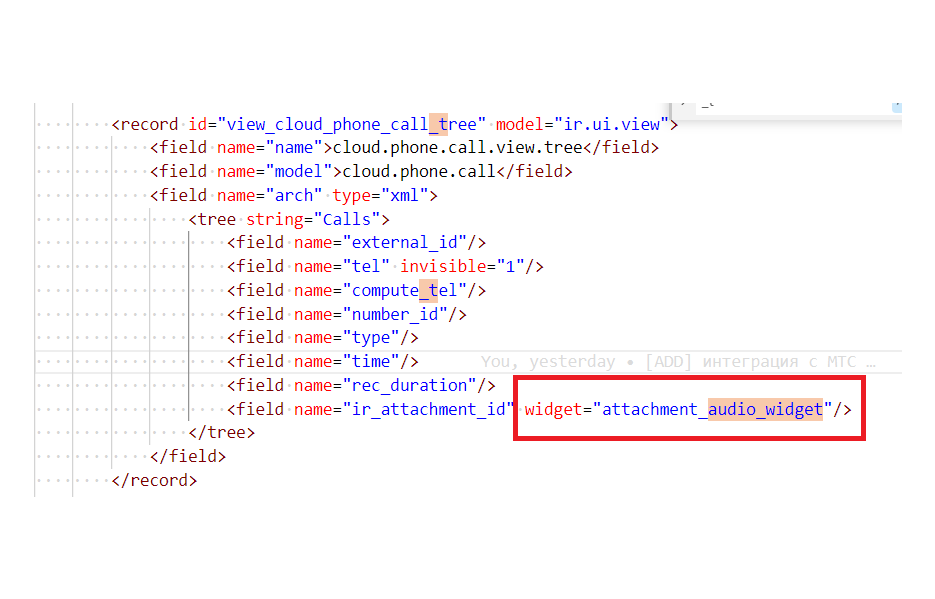
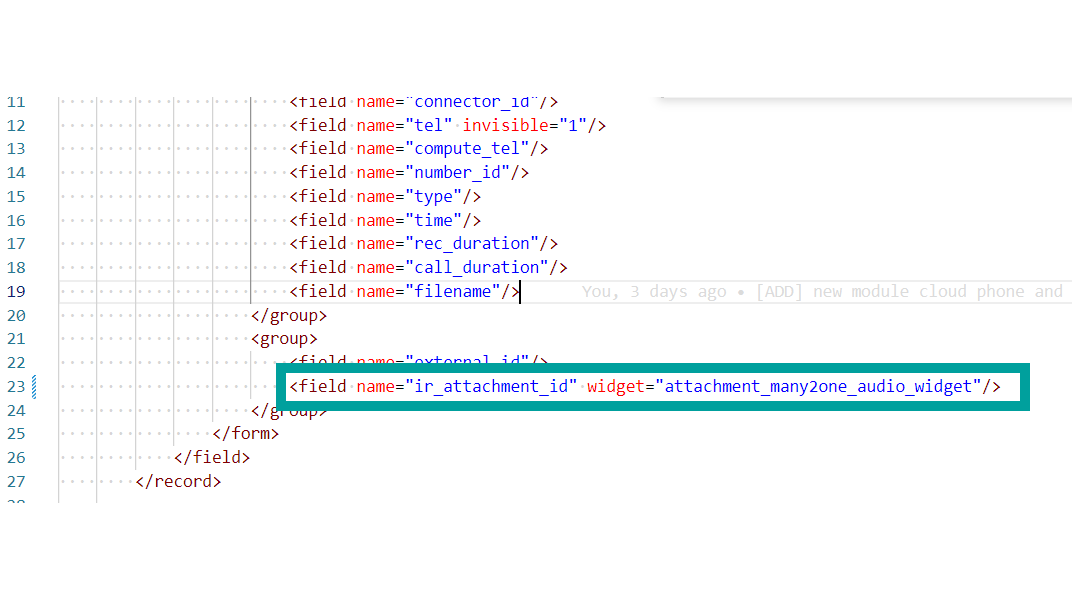
[ADD] new version attachments widgets

diff --git a/attachments_widgets/static/src/js/audio_widget.js b/attachments_widgets/static/src/js/audio_widget.js
@@ -1,22 +1,48 @@
 odoo.define('audio_widget', function (require) {
-    var FieldBinaryFile = require("web.basic_fields").FieldBinaryFile;
-    var fieldRegistry = require('web.field_registry');
-    var core = require('web.core');
-    var _t = core._t;
+    const FieldBinaryFile = require("web.basic_fields").FieldBinaryFile;
+    const fieldRegistry = require('web.field_registry');
+    const relational_fields = require('web.relational_fields');
+    const FieldMany2One = relational_fields.FieldMany2One;
+    const session = require('web.session');
+    const core = require('web.core');
+    const _t = core._t;
 
-    var AttachmentAudioWidget = FieldBinaryFile.extend({
 
-        supportedFieldTypes: ['binary', 'many2one'],
+    const AttachmentMany2OneAudioWidget = FieldMany2One.extend({
+
+        supportedFieldTypes: ['many2one'],
         accepted_file_extensions: 'audio/*,application/ogg',
 
-        _getAudioUrl: function (attachment) {
+        _getUrl: function (attachment) {
             return '/web/content/' + attachment.res_id + '?download=true';
         },
 
+        _computeIsAudio(extension) {
+            const audioExtensions = [
+                'wav',
+                'ogg',
+                'mp3',
+                'mp4',
+                'oga',
+                'ogx',
+                'mpeg'
+            ];
+            return audioExtensions.includes(extension);
+        },
+
+        _computeExtension(filename) {
+            const extension = filename && filename.split('.').pop();
+            if (extension) {
+                return extension;
+            }
+            return clear();
+        },
+
         _renderReadonly: function () {
+            this._super.apply(this, arguments);
             if (this.mode == "readonly")
                 if (this.value) {
-                    const url = this._getAudioUrl(this.value);
+                    const url = this._getUrl(this.value);
 
                     let audio = $('<audio>', {
                         'src': url,
@@ -24,7 +50,8 @@ odoo.define('audio_widget', function (require) {
                         'preload': "metadata",
                     })
 
-                    this.$el.append(audio);
+                    // this.$el.append(audio);
+                    this.$el = audio;
 
                     audio.on("error", () => {
                         this.displayNotification({
@@ -44,10 +71,10 @@ odoo.define('audio_widget', function (require) {
             if (!files || files.length === 0)
                 return;
 
-            let dotArray = files[0].name.split(".");
-            let extension = dotArray[dotArray.length - 1];
+            const filename = files[0].name;
+            const extension = this._computeExtension(filename);
 
-            if (!['wav', 'ogg', 'mp3', 'mp4', 'oga', 'ogx', 'mpeg'].includes(extension))
+            if (!this._computeIsAudio(extension))
                 this.displayNotification({
                     title: _t('Wrong Extension Audio File'),
                     message: _t("Format should be in wav, ogg, mp3, mp4, oga, ogx, mpeg"),
@@ -56,6 +83,91 @@ odoo.define('audio_widget', function (require) {
         }
     });
 
-    fieldRegistry.add('attachment_audio_widget', AttachmentAudioWidget);
-    return { AttachmentAudioWidget: AttachmentAudioWidget };
+    const AttachmentBinaryAudioWidget = FieldBinaryFile.extend({
+
+        supportedFieldTypes: ['binary'],
+        accepted_file_extensions: 'audio/*,application/ogg',
+
+        _getUrl: function (attachment) {
+            if (this.field.type == 'binary')
+                return session.url('/web/content', {
+                    model: this.model,
+                    id: JSON.stringify(this.res_id),
+                    field: this.name,
+                });
+        },
+
+        _computeIsAudio(extension) {
+            const audioExtensions = [
+                'wav',
+                'ogg',
+                'mp3',
+                'mp4',
+                'oga',
+                'ogx',
+                'mpeg'
+            ];
+            return audioExtensions.includes(extension);
+        },
+
+        _computeExtension(filename) {
+            const extension = filename && filename.split('.').pop();
+            if (extension) {
+                return extension;
+            }
+            return clear();
+        },
+
+        _renderReadonly: function () {
+            this._super.apply(this, arguments);
+            if (this.mode == "readonly")
+                if (this.value) {
+                    const url = this._getUrl(this.value);
+
+                    let audio = $('<audio>', {
+                        'src': url,
+                        'controls': true,
+                        'preload': "metadata",
+                    })
+
+                    // this.$el.append(audio);
+                    this.$el = audio;
+
+                    audio.on("error", () => {
+                        this.displayNotification({
+                            title: _t('Wrong Extension Audio File'),
+                            message: _t("Format should be in wav, ogg, mp3, mp4, oga, ogx, mpeg"),
+                            type: 'danger',
+                        });
+                    })
+                }
+        },
+
+        on_file_change: function (ev) {
+            this._super.apply(this, arguments);
+
+            let files = ev.target.files;
+
+            if (!files || files.length === 0)
+                return;
+
+            const filename = files[0].name;
+            const extension = this._computeExtension(filename);
+
+            if (!this._computeIsAudio(extension))
+                this.displayNotification({
+                    title: _t('Wrong Extension Audio File'),
+                    message: _t("Format should be in wav, ogg, mp3, mp4, oga, ogx, mpeg"),
+                    type: 'danger',
+                });
+        }
+    });
+
+    fieldRegistry.add('attachment_many2one_audio_widget', AttachmentMany2OneAudioWidget);
+    fieldRegistry.add('attachment_binary_audio_widget', AttachmentBinaryAudioWidget);
+
+    return {
+        AttachmentMany2OneAudioWidget: AttachmentMany2OneAudioWidget,
+        AttachmentBinaryAudioWidget: AttachmentBinaryAudioWidget
+    };
 })

diff --git a/attachments_widgets/static/src/js/video_widget.js b/attachments_widgets/static/src/js/video_widget.js
@@ -1,0 +1,89 @@
+odoo.define('audio_widget', function (require) {
+    const FieldBinaryFile = require("web.basic_fields").FieldBinaryFile;
+    const fieldRegistry = require('web.field_registry');
+    const session = require('web.session');
+    const core = require('web.core');
+    const _t = core._t;
+
+    const AttachmentVideoWidget = FieldBinaryFile.extend({
+
+        supportedFieldTypes: ['binary', 'many2one'],
+        accepted_file_extensions: 'video/*,audio/mpeg',
+
+        _getUrl: function (attachment) {
+            if (this.field.type == 'binary')
+                return session.url('/web/content', {
+                    model: this.model,
+                    id: JSON.stringify(this.res_id),
+                    field: this.name,
+                });
+            else
+                return '/web/content/' + attachment.res_id + '?download=true';
+        },
+
+        _computeIsVideo(mimetype) {
+            const videoExtensions = [
+                'audio/mpeg',
+                'video/x-matroska',
+                'video/mp4',
+                'video/webm',
+            ];
+            return videoExtensions.includes(mimetype);
+        },
+
+        _computeExtension(filename) {
+            const extension = filename && filename.split('.').pop();
+            if (extension) {
+                return extension;
+            }
+            return clear();
+        },
+
+        _renderReadonly: function () {
+            console.log(this, "7777")
+            if (this.mode == "readonly")
+                if (this.value) {
+                    const url = this._getUrl(this.value);
+
+                    let video = $('<video>', {
+                        'src': url,
+                        'controls': true,
+                        'preload': "metadata",
+                    })
+
+                    this.$el.append(video);
+
+                    audio.on("error", () => {
+                        this.displayNotification({
+                            title: _t('Wrong Extension Video File'),
+                            message: _t("Format should be in webm, mp4, mpeg"),
+                            type: 'danger',
+                        });
+                    })
+                }
+        },
+
+        on_file_change: function (ev) {
+            console.log(this, "7777")
+            this._super.apply(this, arguments);
+
+            let files = ev.target.files;
+
+            if (!files || files.length === 0)
+                return;
+
+            const filename = files[0].name;
+            const extension = this._computeExtension(filename);
+
+            if (!this._computeIsVideo(extension))
+                this.displayNotification({
+                    title: _t('Wrong Extension Video File'),
+                    message: _t("Format should be in webm, mp4, mpeg"),
+                    type: 'danger',
+                });
+        }
+    });
+
+    fieldRegistry.add('attachment_video_widget', AttachmentVideoWidget);
+    return { AttachmentVideoWidget: AttachmentVideoWidget };
+})

diff --git a/attachments_widgets/static/description/index.html b/attachments_widgets/static/description/index.html
@@ -16,7 +16,7 @@
         <h1 data-anchor="true" id="table_of_content_heading_1636804023384_180">What does this module solve?</h1>
 
         <h4>Default behavior</h4>
-        <p>By default, in odoo, a field of type many2one on the ir.attachment table has the function just upload and download.</p>
+        <p>By default, in odoo, a field of type many2one or binary on the ir.attachment table has the function just upload and download.</p>
 
         <h4>Behavior after install</h4>
         <p>After installing this module, widgets will be available, at the moment only one is an audio widget.</p>
@@ -36,7 +36,7 @@
                 <ul class="list-unstyled">
                     <li>
                         <i class="fa fa-check-square-o text-primary"></i>
-                Audio widget for many2one attachment
+                Audio 2 widgets for many2one/binary attachment
                     </li>
                     <li>
                         <i class="fa fa-check-square-o text-primary"></i>

diff --git a/cloud_phone_base/__manifest__.py b/cloud_phone_base/__manifest__.py
@@ -14,7 +14,7 @@
     # Check https://github.com/odoo/odoo/blob/13.0/odoo/addons/base/data/ir_module_category_data.xml
     # for the full list
     "category": "Tools",
-    "version": "14.0.0.0",
+    "version": "14.0.0.1",
     "license": "OPL-1",
     "support": "shurshilov.a@yandex.ru",
     # "price": 39,

diff --git a/attachments_widgets/__manifest__.py b/attachments_widgets/__manifest__.py
@@ -11,7 +11,7 @@
     # Check https://github.com/odoo/odoo/blob/13.0/odoo/addons/base/data/ir_module_category_data.xml
     # for the full list
     "category": "Tools",
-    "version": "14.0.0.0",
+    "version": "14.0.0.1",
     "license": "OPL-1",
     "support": "shurshilov.a@yandex.ru",
     # "price": 9,
